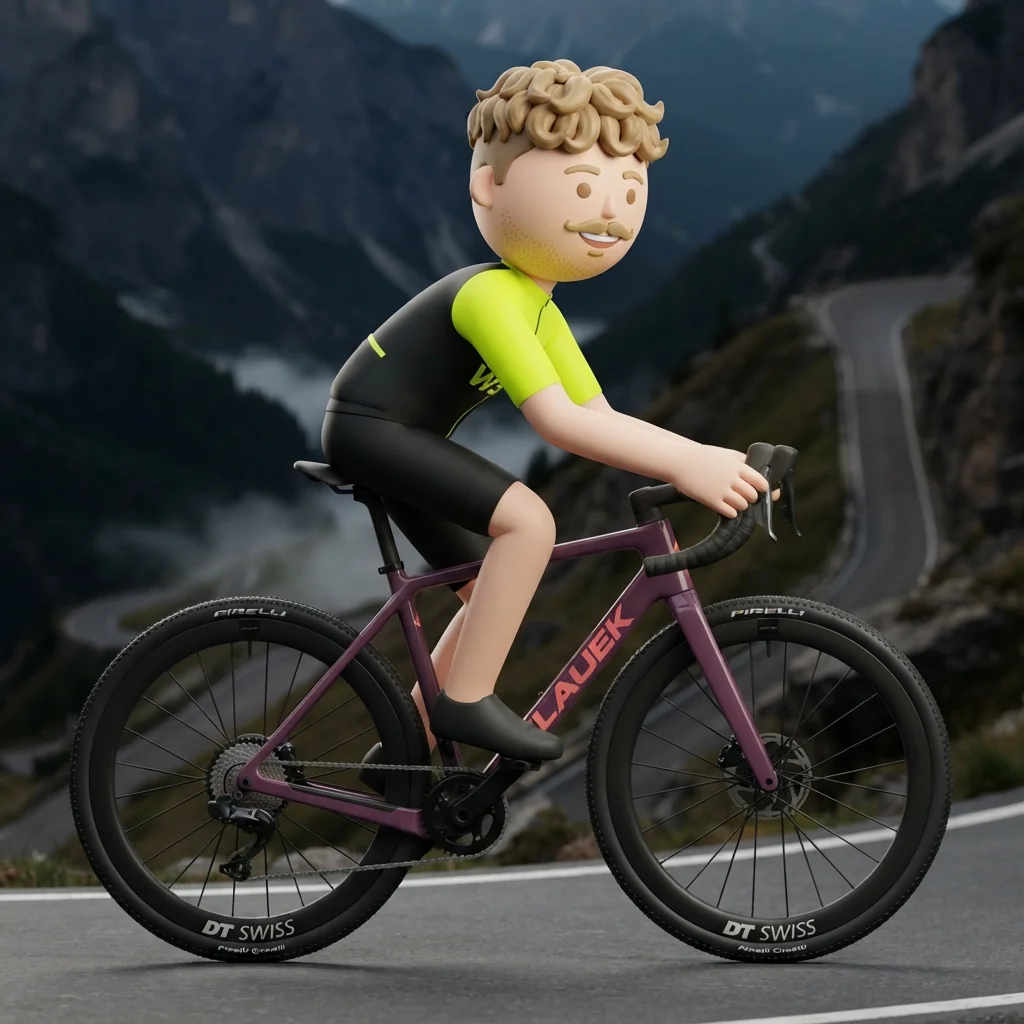
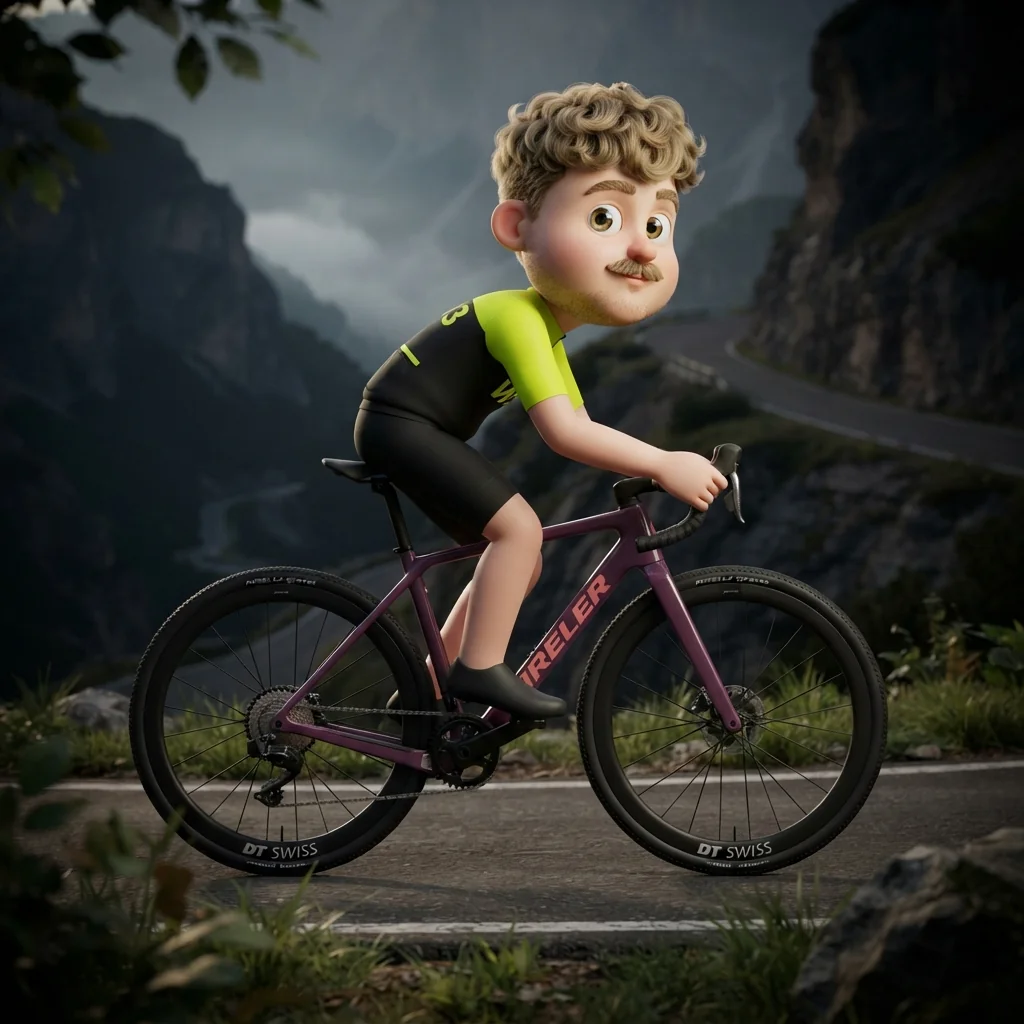
feat(studio): the bike is 1:1 from the photo, and the character is stylised
FOUR CHANGES, all driven by real renders of the owner's own face, bike and a
Maratona GPX.

THE BIKE IS RENDERED FROM THE PHOTOGRAPH NOW. `render_isolated` builds from
the vision description alone, and a description is lossy however dense: run on
a real Standert Kieswerk it produced roughly the right bike with the wrong
decals, the wrong rim depth and an invented brand — "GRAVEL MONSTER". A rider
recognises their bike by exactly those details. `render_bike_from_photo` hands
the photo in as the input image so geometry, paint, decals and components are
anchored to the real machine and the prompt only asks for a change of render
style. The frame now reads "standert", correctly.

NO INVENTED LETTERING is its own constant, because generated images cannot
spell and plausible nonsense on a frame is worse than no branding at all: it
looks like the app got the bike wrong rather than declining to letter it.

THE CHARACTER IS STYLISED, NOT REALISTIC. The old direction rendered facial
features as flat 2D vector decals on a sphere; the new one is fully sculpted
geometry with big three-dimensional eyes — sclera, iris, catchlight — a wide
round head, and deliberately caricatured proportions. "Pixar-adjacent" was too
weak a phrase: it produced a lifelike adult, so the prompt now names realistic
proportions as the failure mode explicitly.

THE SCENE IS A WORLD, NOT A BACKDROP. `_RENDER_STYLE` asks for real geometry —
individual plants, layered foliage, rock strata, road texture — plus
[…]

diff --git a/backend/app/services/cyclr_studio.py b/backend/app/services/cyclr_studio.py
@@ -56,24 +56,49 @@ from app.config import settings
 # was built and tuned against a different reference the owner supplied for that
 # specific surface. Two registers, on purpose. See `ride_framing`'s header.
 GENERAL_STYLE = (
-    "Playful, cool, highly attractive, and extremely likable 3D designer vinyl toy aesthetic "
-    "(similar to premium kawaii Web3 avatars). It must look stylish, awesome, and aesthetically "
-    "pleasing. Bold vibrant colors, clean soft studio lighting, chunky toy proportions, "
-    "high-quality octane render."
+    "Premium, high-fidelity 3D render in a warm animated-feature style — richly detailed, "
+    "beautifully lit and genuinely expensive-looking. Smooth matte materials with subtle surface "
+    "texture, soft rounded forms, physically-based shading, ray-traced global illumination, gentle "
+    "ambient occlusion in the creases and a real depth of field. Confident saturated colour under "
+    "controlled cinematic lighting. "
+    "NOT a flat vector illustration, NOT a cheap plastic toy render, NOT a cartoon."
 )
+# The "everything in frame is modelled with the same care, no empty voids"
+# mandate lives in `ride_scene._RENDER_STYLE`, NOT here. It was briefly in this
+# constant and leaked into the ISOLATED renders, where there is no scene to
+# model: the rider bust came back standing in an invented, blurred living room.
+# A portrait and an object want a clean ground; only a scene wants a world.
 CHARACTER_STYLE = (
-    "CRITICAL AESTHETIC MANDATE: The character MUST be an incredibly appealing, lovable, and "
-    "charismatic 3D avatar in a premium Web3 designer toy style. "
-    "1) THE FACE AND HEAD: MUST be a perfectly smooth, perfectly round sphere. The facial features "
-    "(eyes, eyebrows, mouth, distinct beard, tattoos) MUST NOT be hyper-realistic 3D sculpted. "
-    "They MUST be rendered as minimalist, lovable, 2D flat vector decals (thick bold lines, simple "
-    "cute geometric cutouts) sitting completely flush against the smooth spherical face, like a "
-    "printed graphic on a round vinyl toy. HOWEVER, the exact skin tone (DO NOT change their race "
-    "or skin color) and specific facial hair shape MUST perfectly capture the person's unique 1:1 "
-    "likeness, just translated into this cute, simple spherical decal style. "
-    "2) THE BODY AND CLOTHING: MUST be oversized, chunky, and wild with highly detailed, "
-    "hyper-realistic clothing fabrics for intense textural contrast against the simple flat "
-    "spherical head."
+    "CRITICAL AESTHETIC MANDATE: a warm, charismatic STYLISED 3D character — a modern animated "
+    "mascot, NOT a realistic human. This is deliberately caricatured proportion, not a lifelike "
+    "adult figure, and NOT a flat vector graphic either.\n"
+    "1) THE HEAD: large and noticeably OVERSIZED relative to the body — roughly one third of the "
+    "figure's total height. Its shape is WIDE AND ROUND: as wide as it is tall, with full rounded "
+    "cheeks, a broad soft cranium and a short, small, rounded chin. A LONG, narrow, oval or "
+    "elongated head is wrong — widen and shorten it. The face occupies the lower half of that "
+    "round shape, leaving a generous rounded forehead above. Fully 3D SCULPTED with real volume "
+    "and smooth matte skin.\n"
+    "THE EYES ARE THE FOCAL POINT: BIG, round and wide-set, each with a clearly visible white "
+    "sclera, a large coloured iris, a dark pupil and a bright specular catchlight. They read as "
+    "friendly and alert from across a room. Small, narrow or realistically-scaled eyes are wrong. "
+    "Eyebrows, nose, mouth and facial hair are modelled geometry with real depth and soft "
+    "shadowing — never flat decals, stickers or line art painted on a sphere. The nose is small "
+    "and soft.\n"
+    "CRITICAL LIKENESS: the exact skin tone (DO NOT change their race or skin colour), the hair's "
+    "exact cut, colour and curl, and the exact shape of any beard or moustache MUST capture the "
+    "person 1:1 — carried INTO this stylisation, never used as an excuse to abandon it and render "
+    "a realistic portrait instead.\n"
+    "2) THE BODY: small relative to that big head, and deliberately CHUNKY — thick, soft, tubular "
+    "limbs that look inflated rather than muscled, full rounded shoulders, plump forearms and "
+    "calves that taper only slightly, and simple mitten-like hands with no separated fingers. "
+    "Every form is smooth and swollen; there is NO bony detail, NO visible musculature, NO tendons, "
+    "NO knee caps, NO sharp edge anywhere on the figure.\n"
+    "CRITICAL PROPORTIONS — this is where a realistic render goes wrong: the whole figure is only "
+    "about three to four heads tall. The torso is SHORT and stout, and the arms and legs are SHORT "
+    "and THICK. Long thin limbs, a stretched femur, a wiry forearm, a slim athletic build or "
+    "anatomically-correct adult proportions are all WRONG, no matter how well rendered. Think a "
+    "collectible designer figure of a cyclist, not a photograph of one. "
+    "The kit is clean matte fabric stretched smoothly over that volume with soft simple folds."
 )
 BIKE_STYLE = (
     "The bicycle must maintain perfect, realistic mechanical geometry but with slightly chunky, "
@@ -283,7 +308,12 @@ def _isolated_prompt(description: str, kind: str) -> str:
             f"shot from a direct frontal angle (0-degree profile). They must be looking dead "
             f"straight into the lens, perfectly centered. Do NOT show a side profile. Do NOT show "
             f"the full body or legs. Focus on translating the distinct features, expression, and skin "
-            f"tone to the figure while maintaining the toy aesthetic. {DEFAULT_KIT} "
+            f"tone to the figure. {DEFAULT_KIT} "
+            # Stated explicitly, because without it the render invents a setting:
+            # a blurred living room turned up behind the bust the first time the
+            # style asked for a richly modelled world.
+            f"BACKGROUND: a clean, plain, softly-lit studio ground in a single muted colour with a "
+            f"gentle vignette. NO room, NO furniture, NO scenery, NO props, NO text. "
             f"{GENERAL_STYLE} {CHARACTER_STYLE}"
         )
     return (
@@ -313,6 +343,54 @@ def split_name(description: str | None) -> tuple[str | None, str | None]:
     if name and len(name) > 80:
         name = name[:80].rstrip()
     return name, (rest.strip() if sep else None) or None
+
+
+#: Generated images cannot spell. Left to itself the model writes plausible
+#: nonsense onto a frame — a real Standert came back branded "GRAVEL MONSTER"
+#: and "LAUEK" — which is worse than no branding at all, because it looks like
+#: the app got the rider's bike wrong rather than declining to letter it.
+NO_INVENTED_TEXT = (
+    "CRITICAL — NO INVENTED LETTERING: reproduce brand names, logos and decal TEXT only where they "
+    "are clearly legible in the source photograph, and reproduce them exactly. Where text is not "
+    "clearly readable, render that decal as an abstract shape, a colour block or nothing at all. "
+    "NEVER invent a brand name, a model name, a slogan or any word. Misspelled or fabricated "
+    "lettering on the frame, rims or tyres is a failure."
+)
+
+
+async def render_bike_from_photo(photo_b64: str, description: str) -> tuple[str | None, str, str]:
+    """The rider's bike collectible, rendered FROM THE PHOTO — 1:1.
+
+    WHY THIS EXISTS ALONGSIDE `render_isolated`. That path renders from the
+    vision description alone, and a description is lossy no matter how dense:
+    run on a real Standert Kieswerk it produced the right colour and roughly the
+    right bike, with the wrong decals, the wrong wheel depth and an invented
+    brand. The rider recognises their bike by exactly those details.
+
+    Handing the photograph in as the input image anchors the geometry, the
+    paint, the decals and the component spec to the real machine, and the prompt
+    then only has to ask for a change of RENDER STYLE. The description still
+    rides along because it survives the photo — every later scene and build is
+    composed from it — but it is no longer the only source of truth.
+    """
+    prompt = (
+        "Re-render the bicycle in the supplied photograph as a premium 3D model.\n\n"
+        "THIS IS A RESTYLE, NOT A REDESIGN. The bicycle must be 1:1 IDENTICAL to the photograph: "
+        "the same frame geometry and tube shapes, the same paint colour and finish, the same "
+        "decals in the same places, the same handlebar, saddle, wheels, rim depth, tyres, "
+        "drivetrain and brakes. Change NOTHING about the machine itself — not the colour, not the "
+        "shape, not a single component. Only the rendering style changes.\n\n"
+        f"REFERENCE DETAIL (from the same photograph): [{description}]\n\n"
+        f"{NO_INVENTED_TEXT}\n\n"
+        f"{BIKE_CAMERA} "
+        "Set the bicycle on a clean, soft, neutral light-grey studio backdrop with a subtle contact "
+        "shadow directly beneath the wheels. The background must be plain — no props, no scenery. "
+        f"{GENERAL_STYLE} {ISOLATED_BIKE_STYLE}"
+    )
+    if not _gemini_ready():
+        return None, prompt, "image_model_unavailable"
+    img = await edit_image(photo_b64, prompt, description or photo_b64[:64])
+    return img, prompt, "ok" if img else "image_model_unavailable"
 
 
 async def render_isolated(description: str, kind: str) -> tuple[str | None, str, str]:

diff --git a/backend/app/services/ride_scene.py b/backend/app/services/ride_scene.py
@@ -90,12 +90,20 @@ def terrain_key(g: RideGeo) -> str:
 # devices comes back photoreal while the rider stays toy, and the seam between
 # them is the first thing the eye finds. So the background follows the figure.
 _RENDER_STYLE = (
-    "CRITICAL STYLE RULE: render the entire background landscape in the EXACT same premium 3D "
-    "designer toy aesthetic as the character — beautifully sculpted, chunky, smooth matte "
-    "materials, vibrant but controlled colour, soft octane lighting, like a high-end miniature "
-    "vinyl diorama. The rock, trees, grass and road must read as tactile sculpted models, NOT as "
-    "photorealistic nature. Never a flat cartoon and never a photograph: a premium physical model "
-    "of a place."
+    "CRITICAL STYLE RULE: the environment is modelled with the SAME care and the same level of "
+    "detail as the character — one coherent, high-fidelity 3D scene, never a figure standing in "
+    "front of a backdrop.\n"
+    "DETAIL: build the world out of real geometry. Individual plants, distinct blades of grass, "
+    "separate leaves, layered foliage, real rock formations with visible strata, road surface with "
+    "actual texture and a painted edge line. Foreground elements sit BETWEEN the camera and the "
+    "rider — leaves, grasses or rocks close to the lens, thrown out of focus — so the scene has "
+    "genuine depth rather than a flat plane behind the subject.\n"
+    "LIGHT: cinematic and directional, with a clear key, real shadows that fall across the terrain, "
+    "atmospheric haze in the distance and a rich falloff into darkness at the frame edges. "
+    "Ray-traced global illumination and soft ambient occlusion where forms meet.\n"
+    "MATERIALS: smooth matte surfaces with subtle texture, saturated but controlled colour. "
+    "Stylised and sculpted rather than photographic — but DENSE and expensive-looking, never a "
+    "sparse toy diorama, never simple grey lumps, never an empty gradient sky."
 )
 
 # The SHARED starter backdrop: the one scene every rider begins in.

diff --git a/backend/scripts/studio_try.py b/backend/scripts/studio_try.py
@@ -157,7 +157,12 @@ async def main() -> int:
     if args.bike:
         bike_desc = await _describe(args.bike, "bike", out)
         if bike_desc:
-            img, _, status = await cyclr_studio.render_isolated(bike_desc, "bike")
+            # FROM THE PHOTO, not from the description. A description is lossy
+            # however dense, and the rider recognises their bike by exactly the
+            # details it loses — decal placement, rim depth, the real brand.
+            img, _, status = await cyclr_studio.render_bike_from_photo(
+                _as_data_url(args.bike), bike_desc,
+            )
             print(f"[bike] render: {status}")
             if img:
                 base = _write(out / "bike", img)
